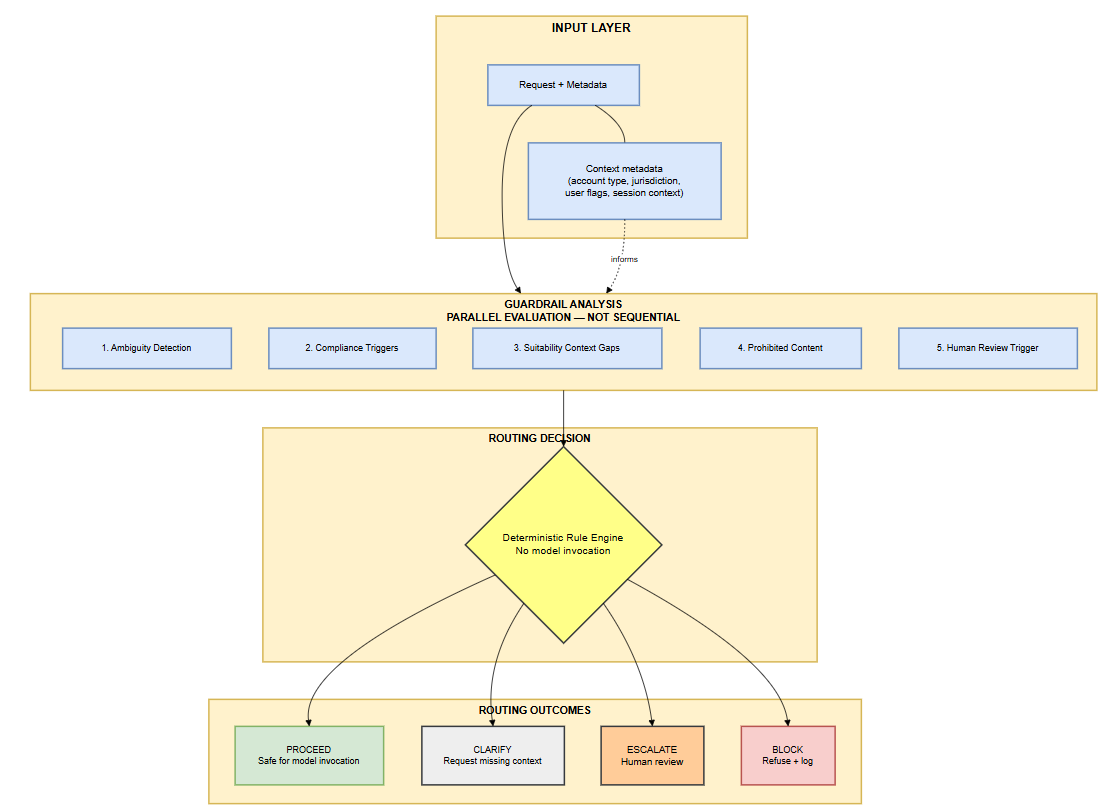
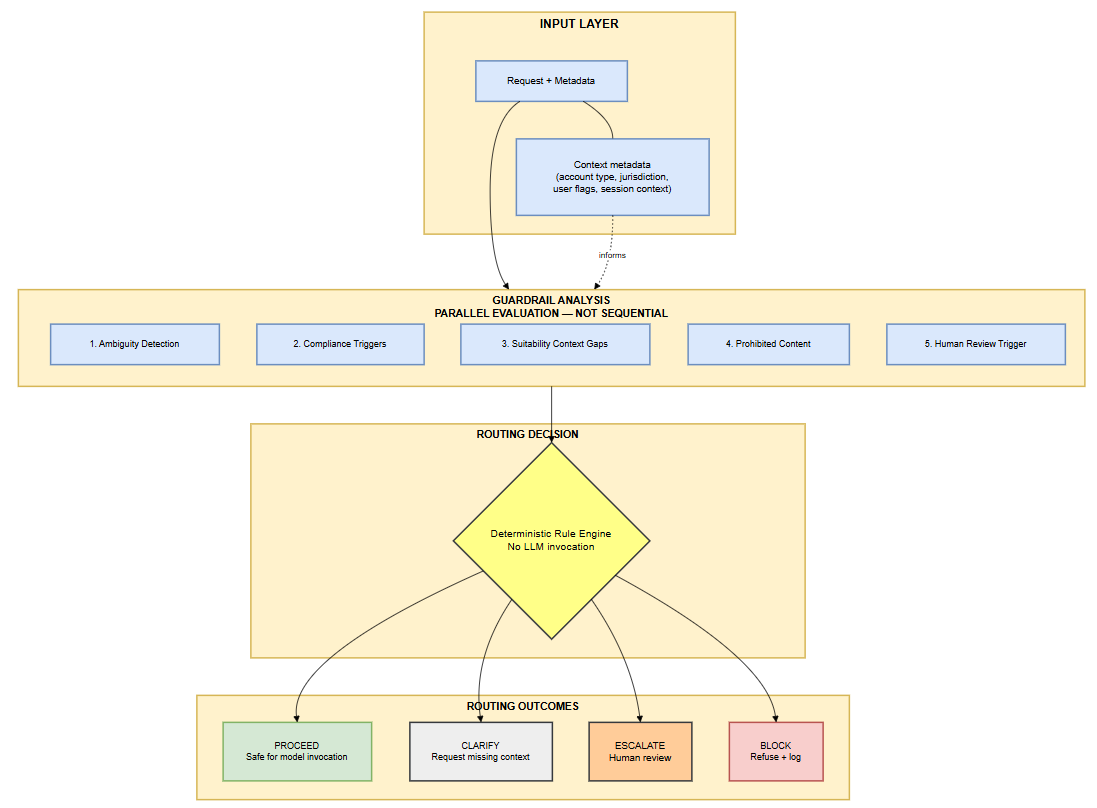
reqs-guardrails: additional updates to README to reflect some kind of ML involvement in routing - but not any LLM involvement or invocation for routing

diff --git a/modules/requirements-guardrails/README.md b/modules/requirements-guardrails/README.md
@@ -62,10 +62,9 @@ Inputs arrive from users, workflows, or upstream systems. Outputs are routing de
 - Guardrails execute in **parallel**, not sequentially
 - Metadata (account type, jurisdiction, flags) informs suitability and compliance checks
 - "Human Review Trigger" (check) is distinct from "ESCALATE" (outcome)
-- Routing decision is **deterministic** — no model invocation
+- Routing decision is **deterministic** — no general-purpose LLM invocation
 
 For detailed architecture decisions, see [Architecture Decision Records](./architecture/).
-
 
 ---
 
@@ -179,7 +178,7 @@ These principles reflect a governance-first philosophy aligned with the portfoli
 | **Be explainable** | Every decision must have auditable rationale |
 | **Prefer false positives over silent risk** | Better to ask for clarification than process bad input |
 | **Human-in-the-loop is a feature** | Escalation is a valid outcome, not a system failure |
-| **Deterministic routing** | No model decides routing; rules are auditable |
+| **No opaque inference at control layer** | Rules and narrow validated classifiers only; no general-purpose LLM |
 | **Runtime governance** | Every request evaluated, not just at deployment |
 
 > **PM DECISION:** These aren't aspirational values—they're constraints that shape every design choice in this module.
@@ -210,7 +209,7 @@ Scope discipline is a senior PM signal. This module has clear boundaries:
 - ❌ **Does not attempt semantic "truth"** — It classifies risk, not factual accuracy
 - ❌ **Does not replace compliance review** — Escalation routes to humans
 - ❌ **Does not guarantee model safety** — It reduces input risk; output risk is a separate concern
-- ❌ **Does not use ML for classification** — Deterministic rules ensure explainability
+- ❌ **Does not use general-purpose ML for routing** — Rules and narrow validated classifiers ensure explainability
 
 > **PM DECISION:** Knowing what NOT to build is as important as knowing what to build. Every exclusion here is a deliberate choice.
 
@@ -270,9 +269,9 @@ This module is complete when:
 
 | Decision | Rationale |
 |----------|-----------|
-| **Deterministic routing** | Auditable, explainable, no recursive model risk |
+| **No opaque inference at control layer** | Auditability requires explainable routing; general-purpose LLMs rejected |
+| **Narrow classifiers acceptable** | For subjective checks (implied guarantees, tone), validated single-task classifiers preserve auditability |
 | **Escalate vs. refuse distinction** | Escalation preserves user intent; refusal blocks harmful patterns |
-| **Rule-based over ML classification** | Regulatory requirements demand explainability |
 | **Clarify before processing** | Ambiguity is a product problem, not a model problem |
 | **Explicit output contract** | Interface-first design enables modular architecture |
 

diff --git a/modules/requirements-guardrails/architecture/README.md b/modules/requirements-guardrails/architecture/README.md
@@ -38,8 +38,8 @@ Each ADR follows this structure:
 
 These principles guide all architectural decisions in this module:
 
-1. **Deterministic over probabilistic** — Routing decisions use rules, not models
-2. **Explainability first** — Every decision must be auditable
+1. **No opaque inference at control layer** — Routing uses rules and narrow validated classifiers, not general-purpose LLMs
+2. **Explainability first** — Every decision must have auditable rationale
 3. **Fail-safe defaults** — Unknown inputs escalate to humans
 4. **Interface-first design** — Define contracts before implementation
 5. **Compliance reviewable** — Non-technical stakeholders can validate logic
